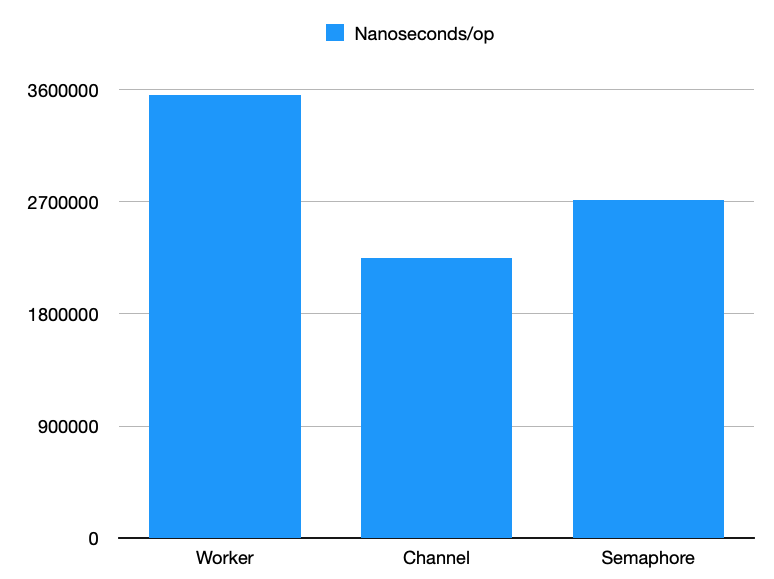
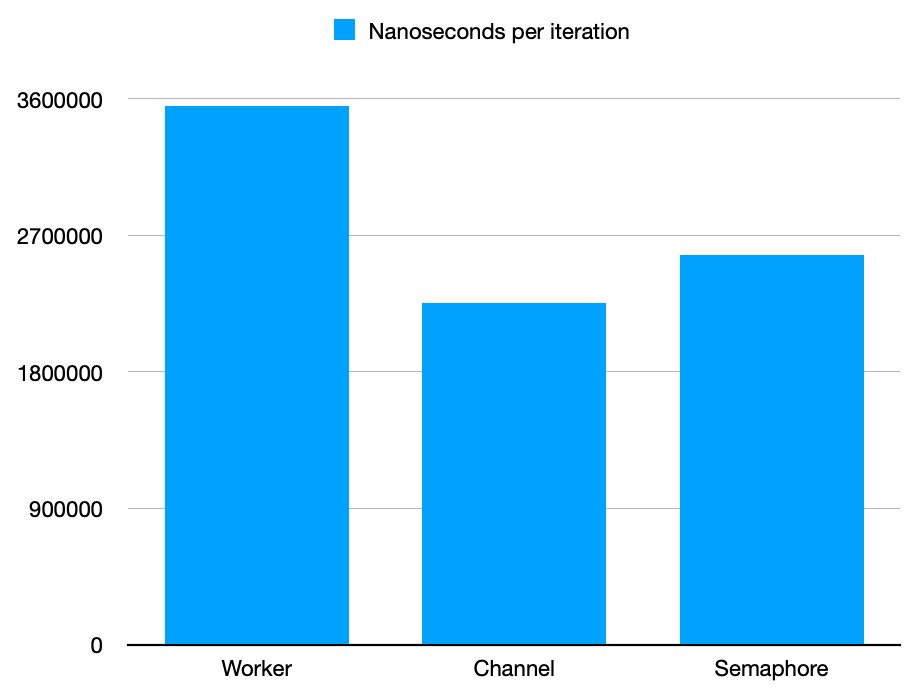
fix: semaphore pool needs waitgroup

diff --git a/semaphorepool.go b/semaphorepool.go
@@ -2,6 +2,7 @@ package core
 
 import (
 	"context"
+	"sync"
 
 	"golang.org/x/sync/semaphore"
 )
@@ -10,25 +11,34 @@ import (
 type SemaphorePool struct {
 	concurrency int64
 	sem         *semaphore.Weighted
+	wg          *sync.WaitGroup
 	ctx         context.Context
 }
 
 func NewSemaphorePool(concurrency int64) *SemaphorePool {
-	return &SemaphorePool{concurrency, semaphore.NewWeighted(int64(concurrency)), context.Background()}
+	return &SemaphorePool{
+		concurrency,
+		semaphore.NewWeighted(int64(concurrency)),
+		&sync.WaitGroup{},
+		context.Background(),
+	}
 }
 
 func (s SemaphorePool) Submit(f func()) {
+	s.wg.Add(1)
 	err := s.sem.Acquire(s.ctx, 1)
 	if err != nil {
 		panic(err)
 	}
 	go func() {
 		f()
+		s.wg.Done()
 		s.sem.Release(1)
 	}()
 }
 
 func (s SemaphorePool) Wait() {
+	s.wg.Wait()
 	err := s.sem.Acquire(s.ctx, s.concurrency)
 	if err != nil {
 		panic(err)

diff --git a/README.md b/README.md
@@ -27,17 +27,21 @@ The following worker pool strategies are featured here:
   limit concurrency. This is my favorite interface and it's what I use in my
   projects.
 
-Run tests with `go test ./...`. This tests all pools and ensures that they
-complete all jobs, use the full concurrency available, and do not exceed that
-concurrency.
+Run tests with `go test ./... -race`. This tests all pools and ensures that they
+complete all jobs, use the full concurrency available, and do not exceed the
+specified concurrency.
 
 Run benchmarks with `go test bench=.`. Here are the results from running an
 extended benchmark on my 2020 M1 MacBook Air:
 
 ```
-BenchmarkWorkerPool-8      	    3108	   3558367 ns/op
-BenchmarkChannelPool-8     	    5640	   2246060 ns/op
-BenchmarkSemaphorePool-8   	    4971	   2711632 ns/op
+$ go test -bench=. -benchtime=60s
+goos: darwin
+goarch: arm64
+pkg: github.com/mplewis/go-worker-pools
+BenchmarkWorkerPool-8      	   21027	   3554945 ns/op
+BenchmarkChannelPool-8     	   31254	   2253164 ns/op
+BenchmarkSemaphorePool-8   	   28473	   2572525 ns/op
 ```
 
 ![Bar graph of benchmark results](assets/benchmarks.png)
